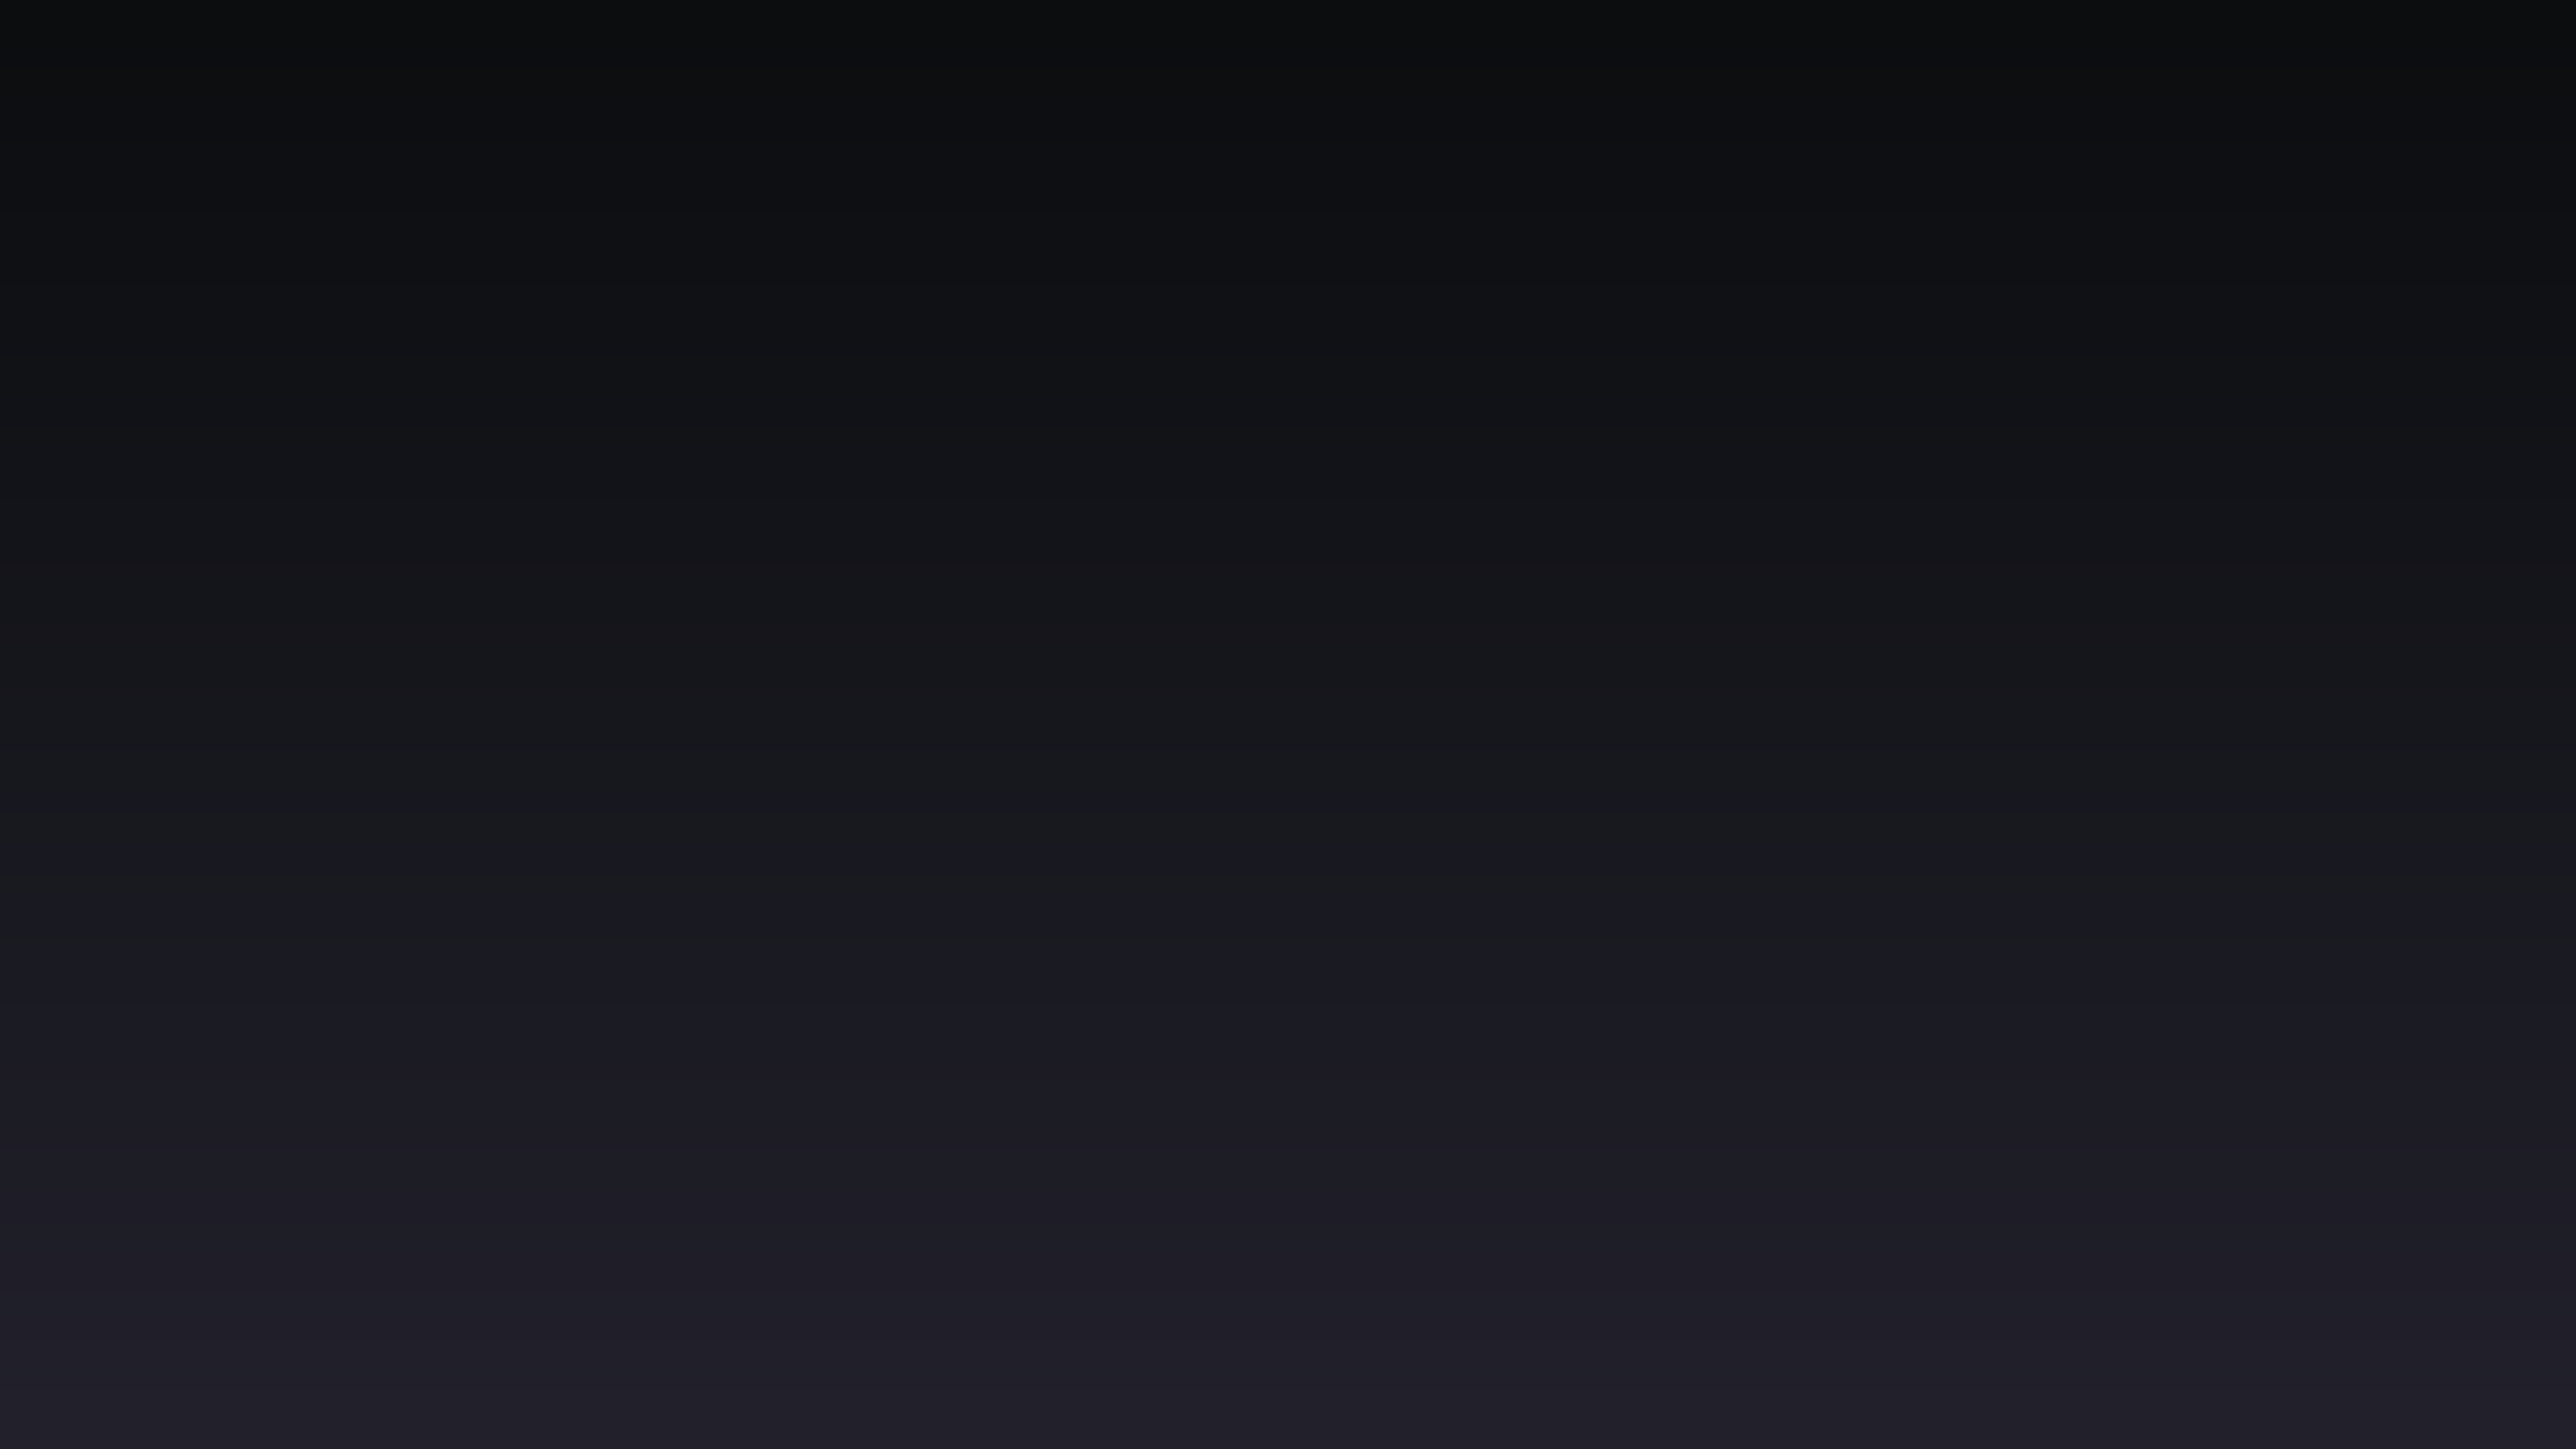
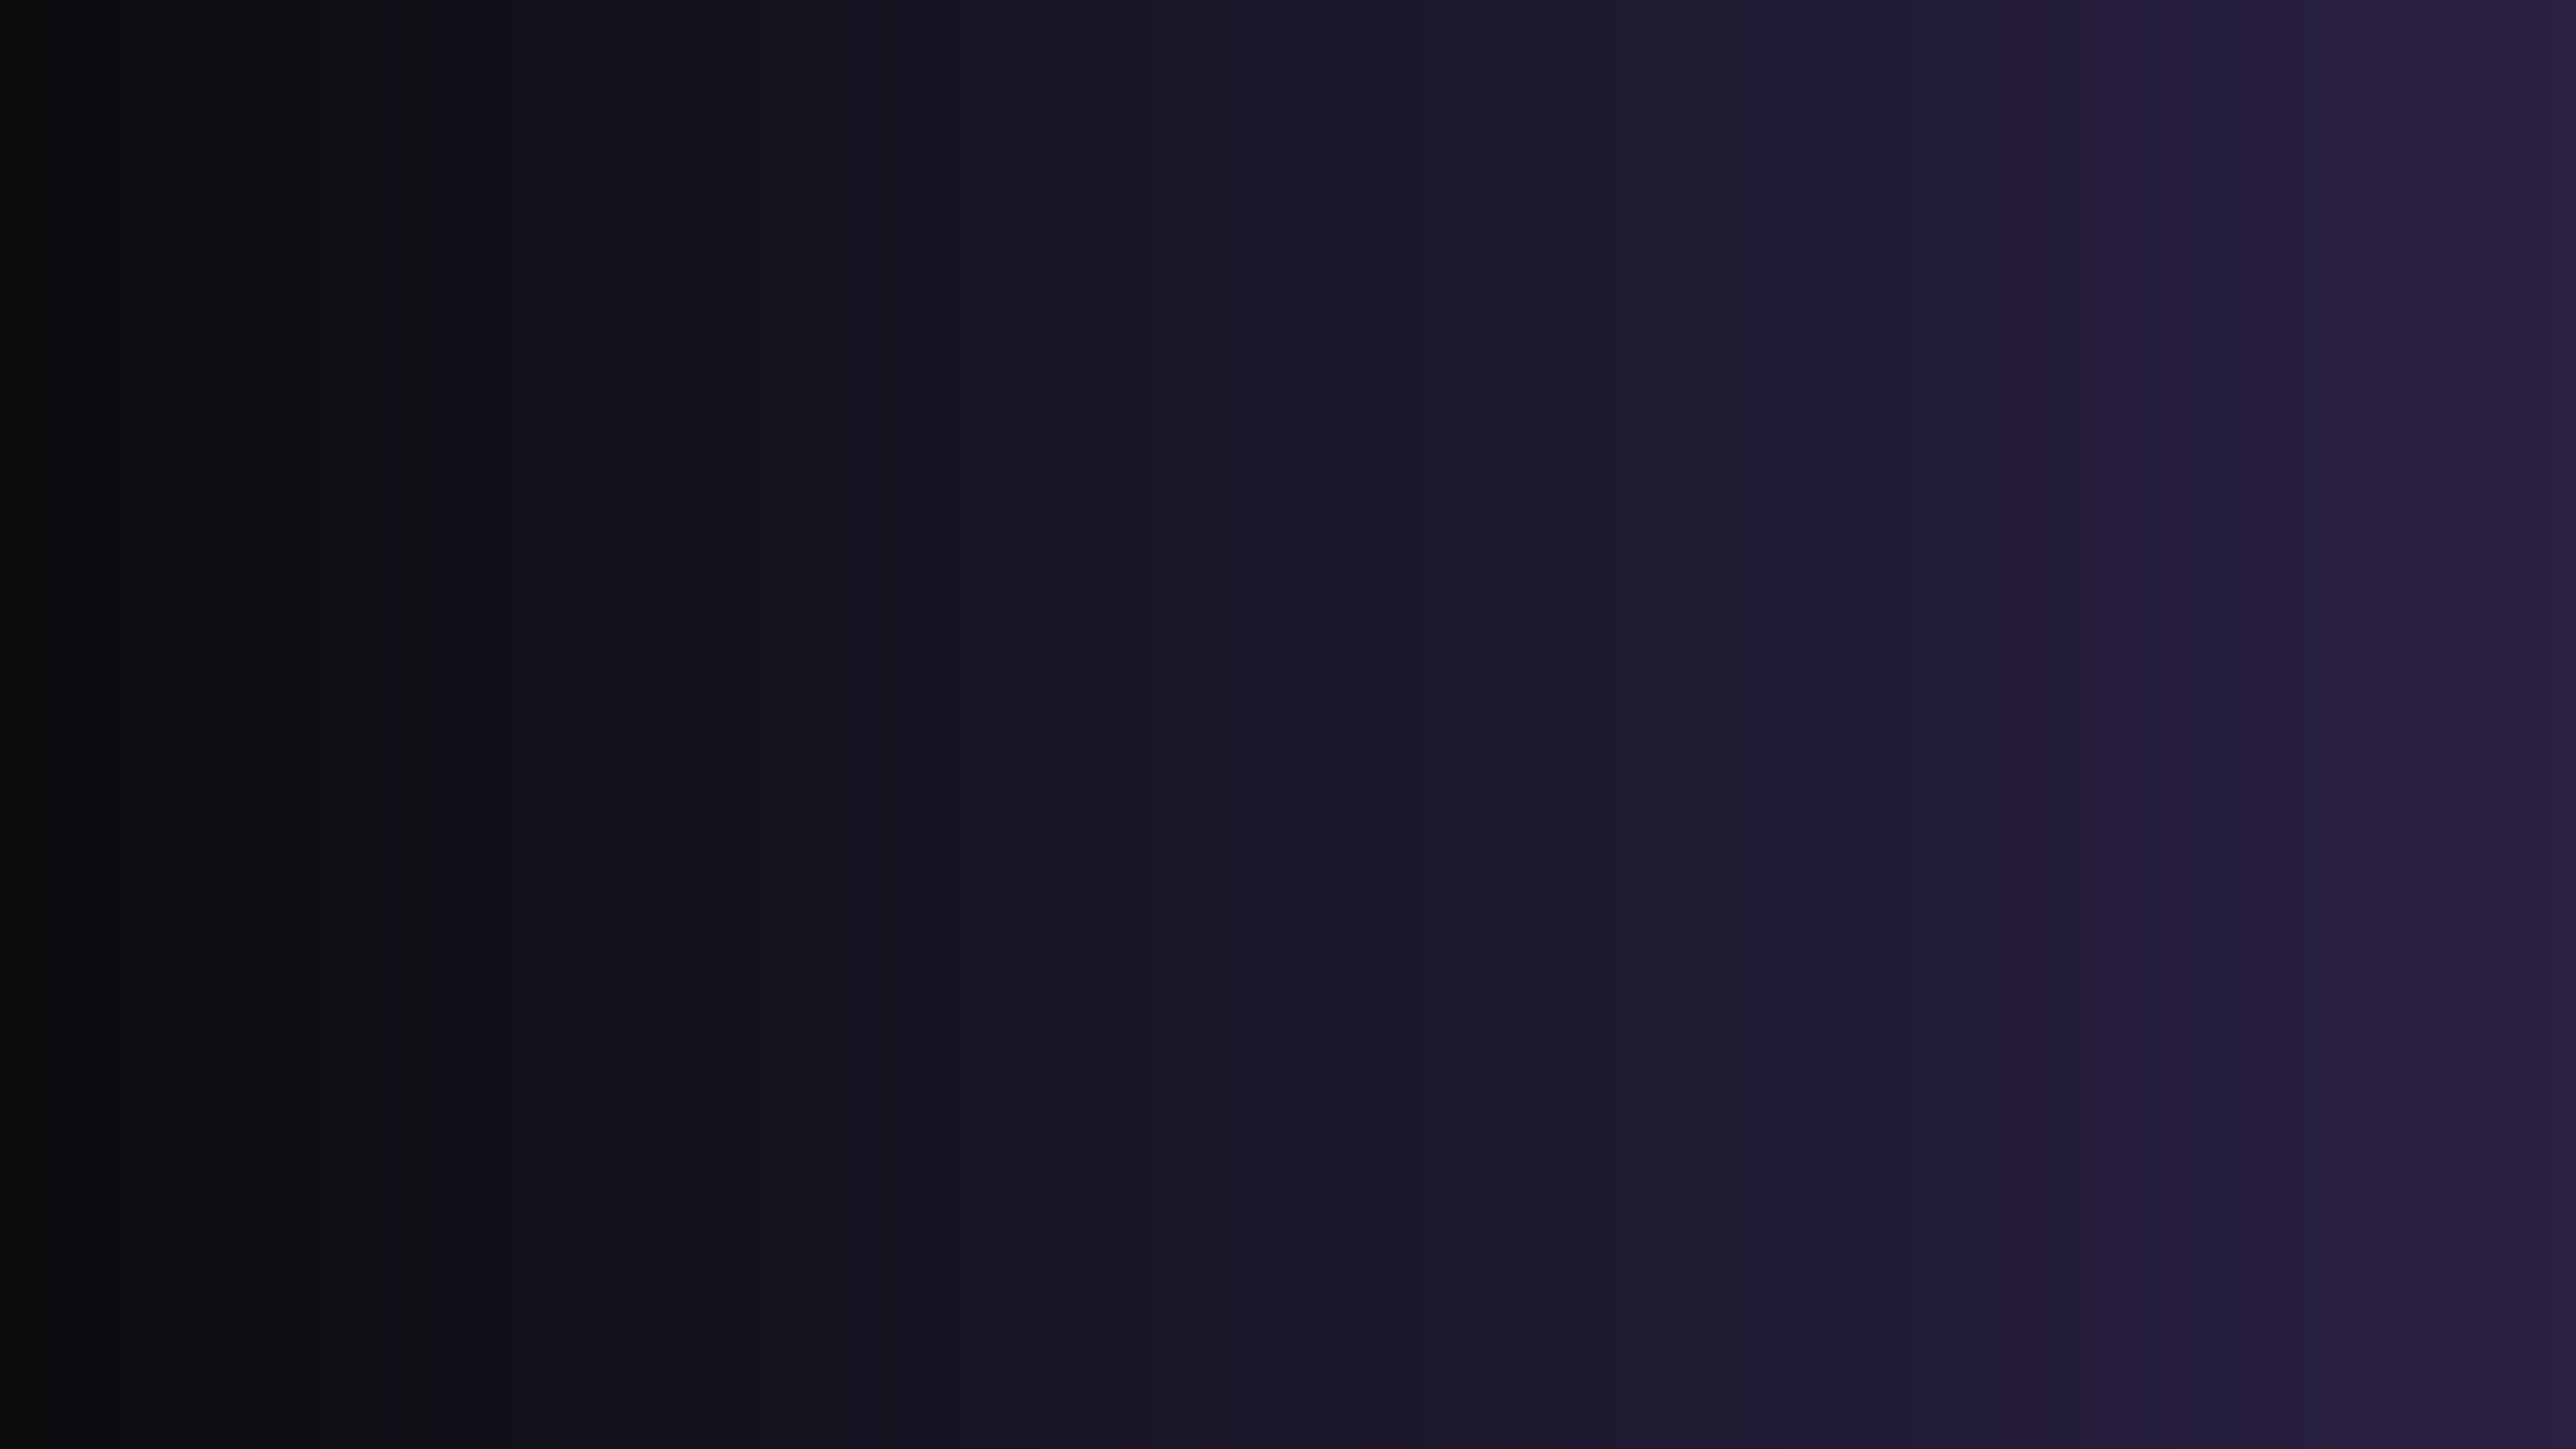
fix(omarchy): 🎨 make the theme's default background visible
Claude-Session: https://claude.ai/code/session_01QZWGKyJaJnwqNpjXauanY3

The committed gradient ran #0B0D0F to #22212C — two near-blacks, so a fresh
install of this theme renders what looks like a blank desktop. Replaced with a
wash into Dracula Pro's purple, which reads as deliberate at a glance and still
stays out of the way of windows.

Documents how to use Omarchy's bundled wallpapers instead: they go in
~/.config/omarchy/backgrounds/<slug>/, which omarchy theme bg searches ahead of
the theme's own folder and which stays out of this public repo.

Changed region(s): [[0.4375, 0.0, 1.0, 1.0], [0.0, 0.8375, 0.0938, 1.0]]

diff --git a/omarchy/README.md b/omarchy/README.md
@@ -47,16 +47,30 @@ draws with `color0`. Keep those four in step with
 `$OMARCHY_PATH/default/themed/*.tpl` when Omarchy adds keys; the drift check in
 `AGENTS.md` covers it.
 
-The background is a generated gradient, on-palette and a few KB, rather than a
+The background is a generated gradient, on-palette and ~50 KB, rather than a
 photo of unknown provenance in a public repo:
 
 ```bash
-magick -size 3840x2160 gradient:'#0B0D0F-#22212C' \
+magick -size 2160x3840 gradient:'#2B2145-#0B0D0F' -rotate 90 \
+  -resize '3840x2160!' \
   omarchy/themes/dracula-pro-van-helsing/backgrounds/van-helsing.png
 ```
 
+It was `gradient:'#0B0D0F-#22212C'` first — two near-blacks, which renders as a
+blank desktop and reads as a broken install. If you change it, look at the
+result before committing: a wallpaper is the one file in this repo you cannot
+verify by reading it.
+
 Photographic wallpapers belong in `~/.config/omarchy/backgrounds/dracula-pro-van-helsing/`,
-which `omarchy theme bg` also searches and which stays out of git.
+which `omarchy theme bg` searches *ahead* of the theme's own folder and which
+stays out of git. Omarchy's bundled ones are good source material:
+
+```bash
+mkdir -p ~/.config/omarchy/backgrounds/dracula-pro-van-helsing
+cp /usr/share/omarchy/themes/tokyo-night/backgrounds/1-quattro.jpg \
+   ~/.config/omarchy/backgrounds/dracula-pro-van-helsing/
+omarchy theme bg set ~/.config/omarchy/backgrounds/dracula-pro-van-helsing/1-quattro.jpg
+```
 
 ## Fonts
 
